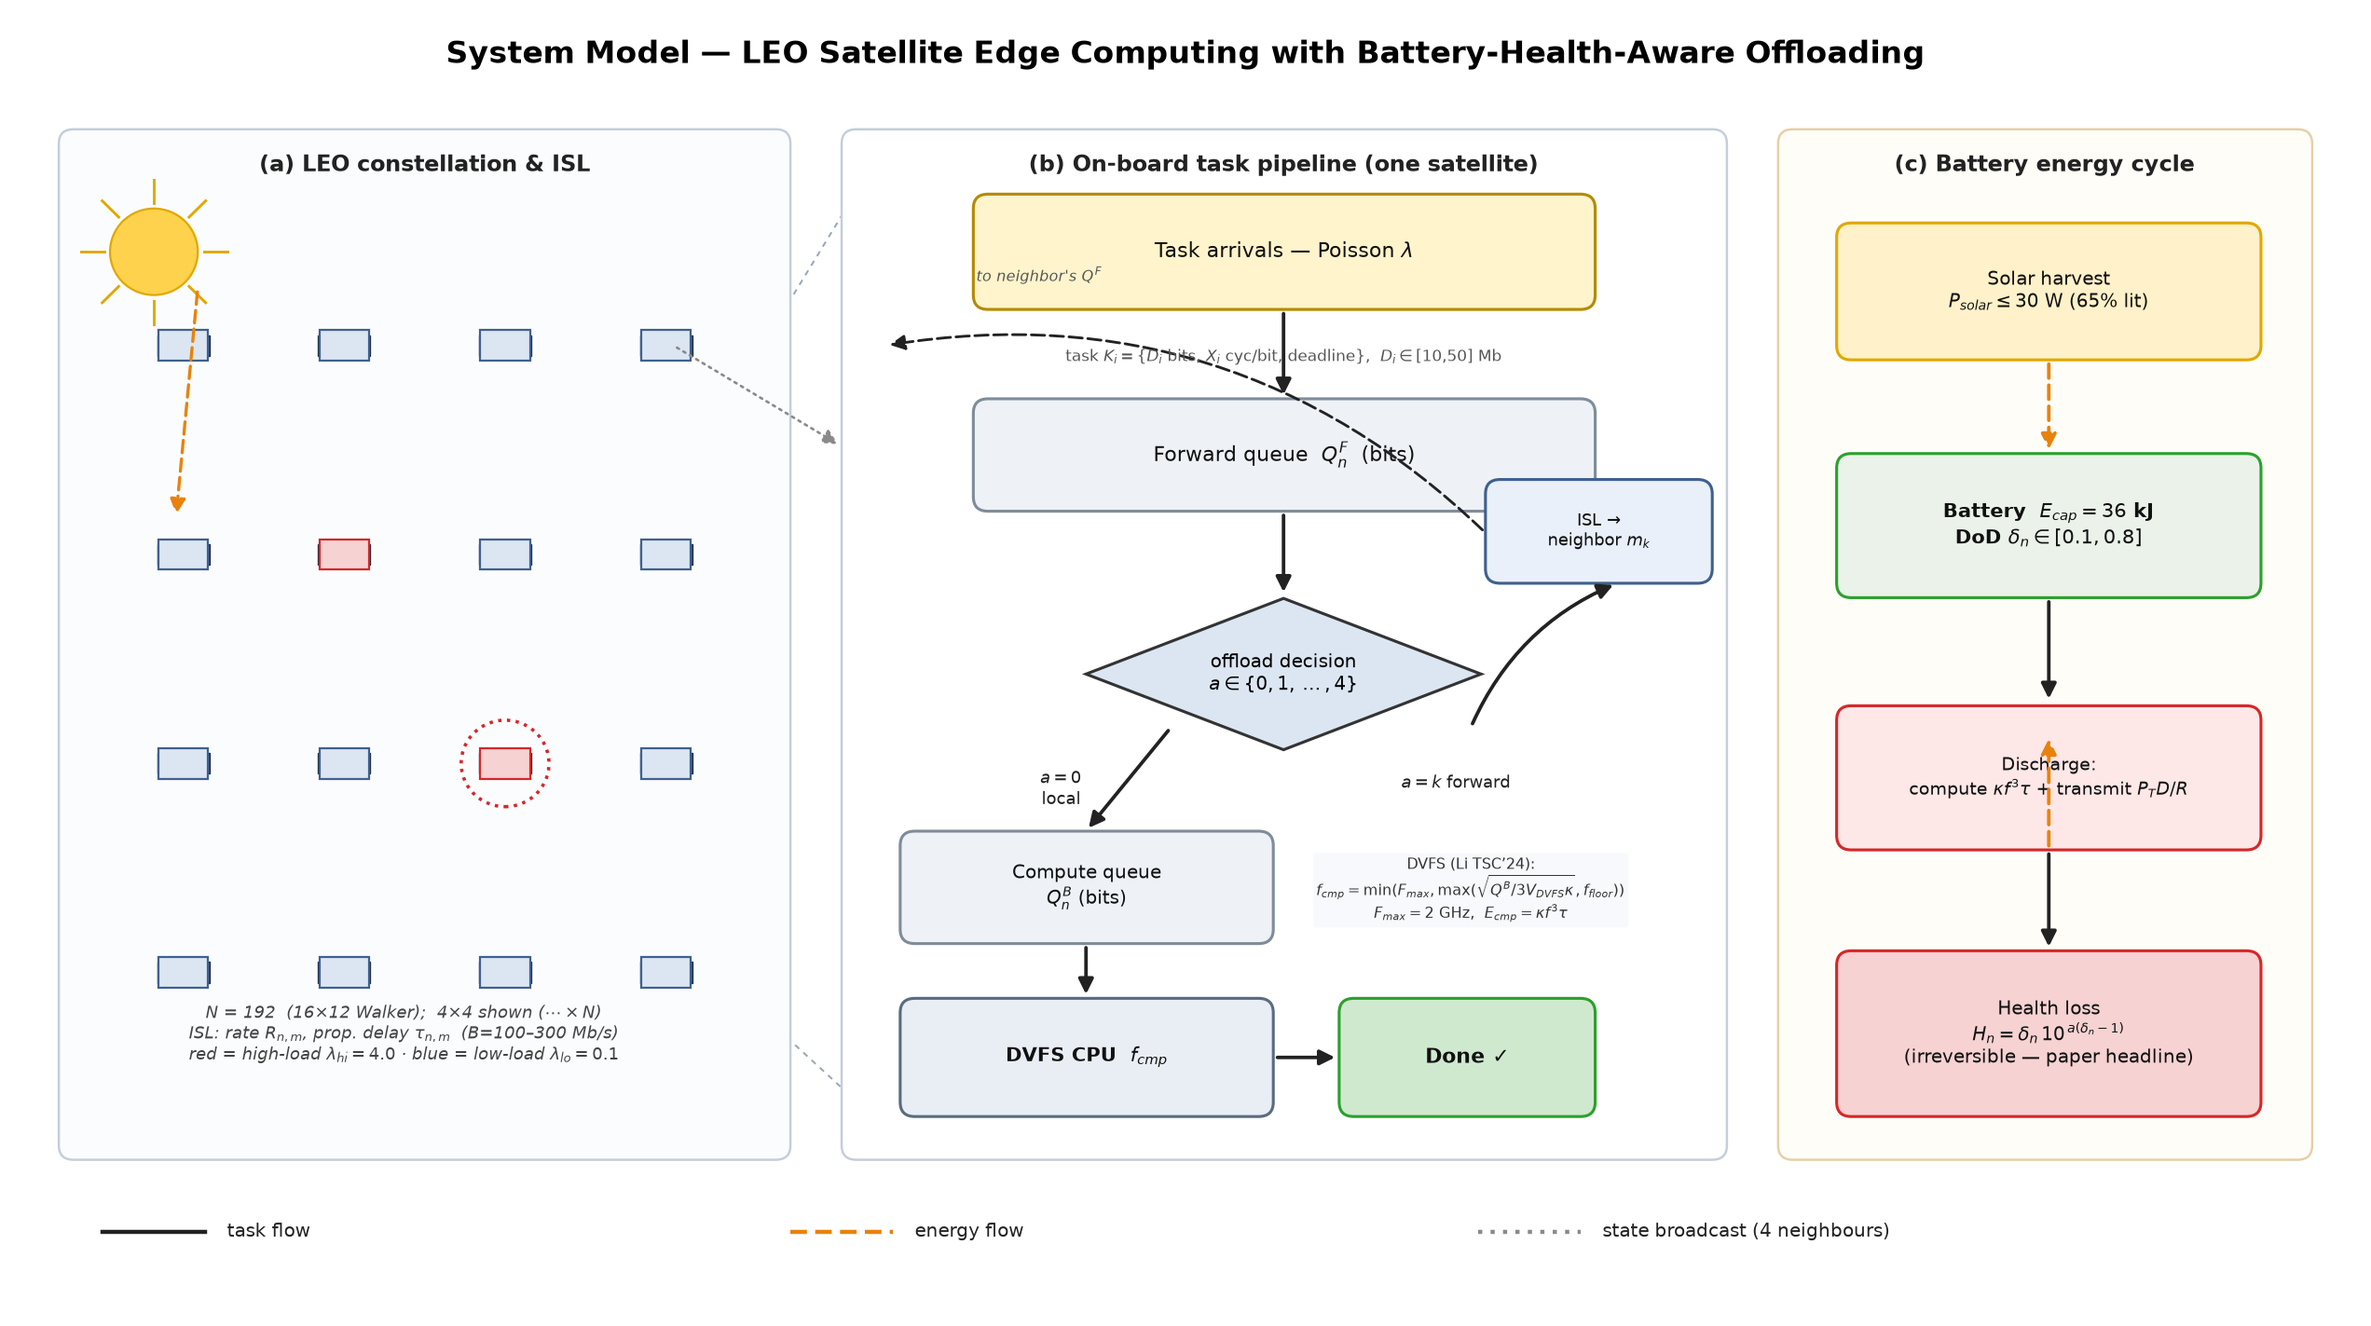
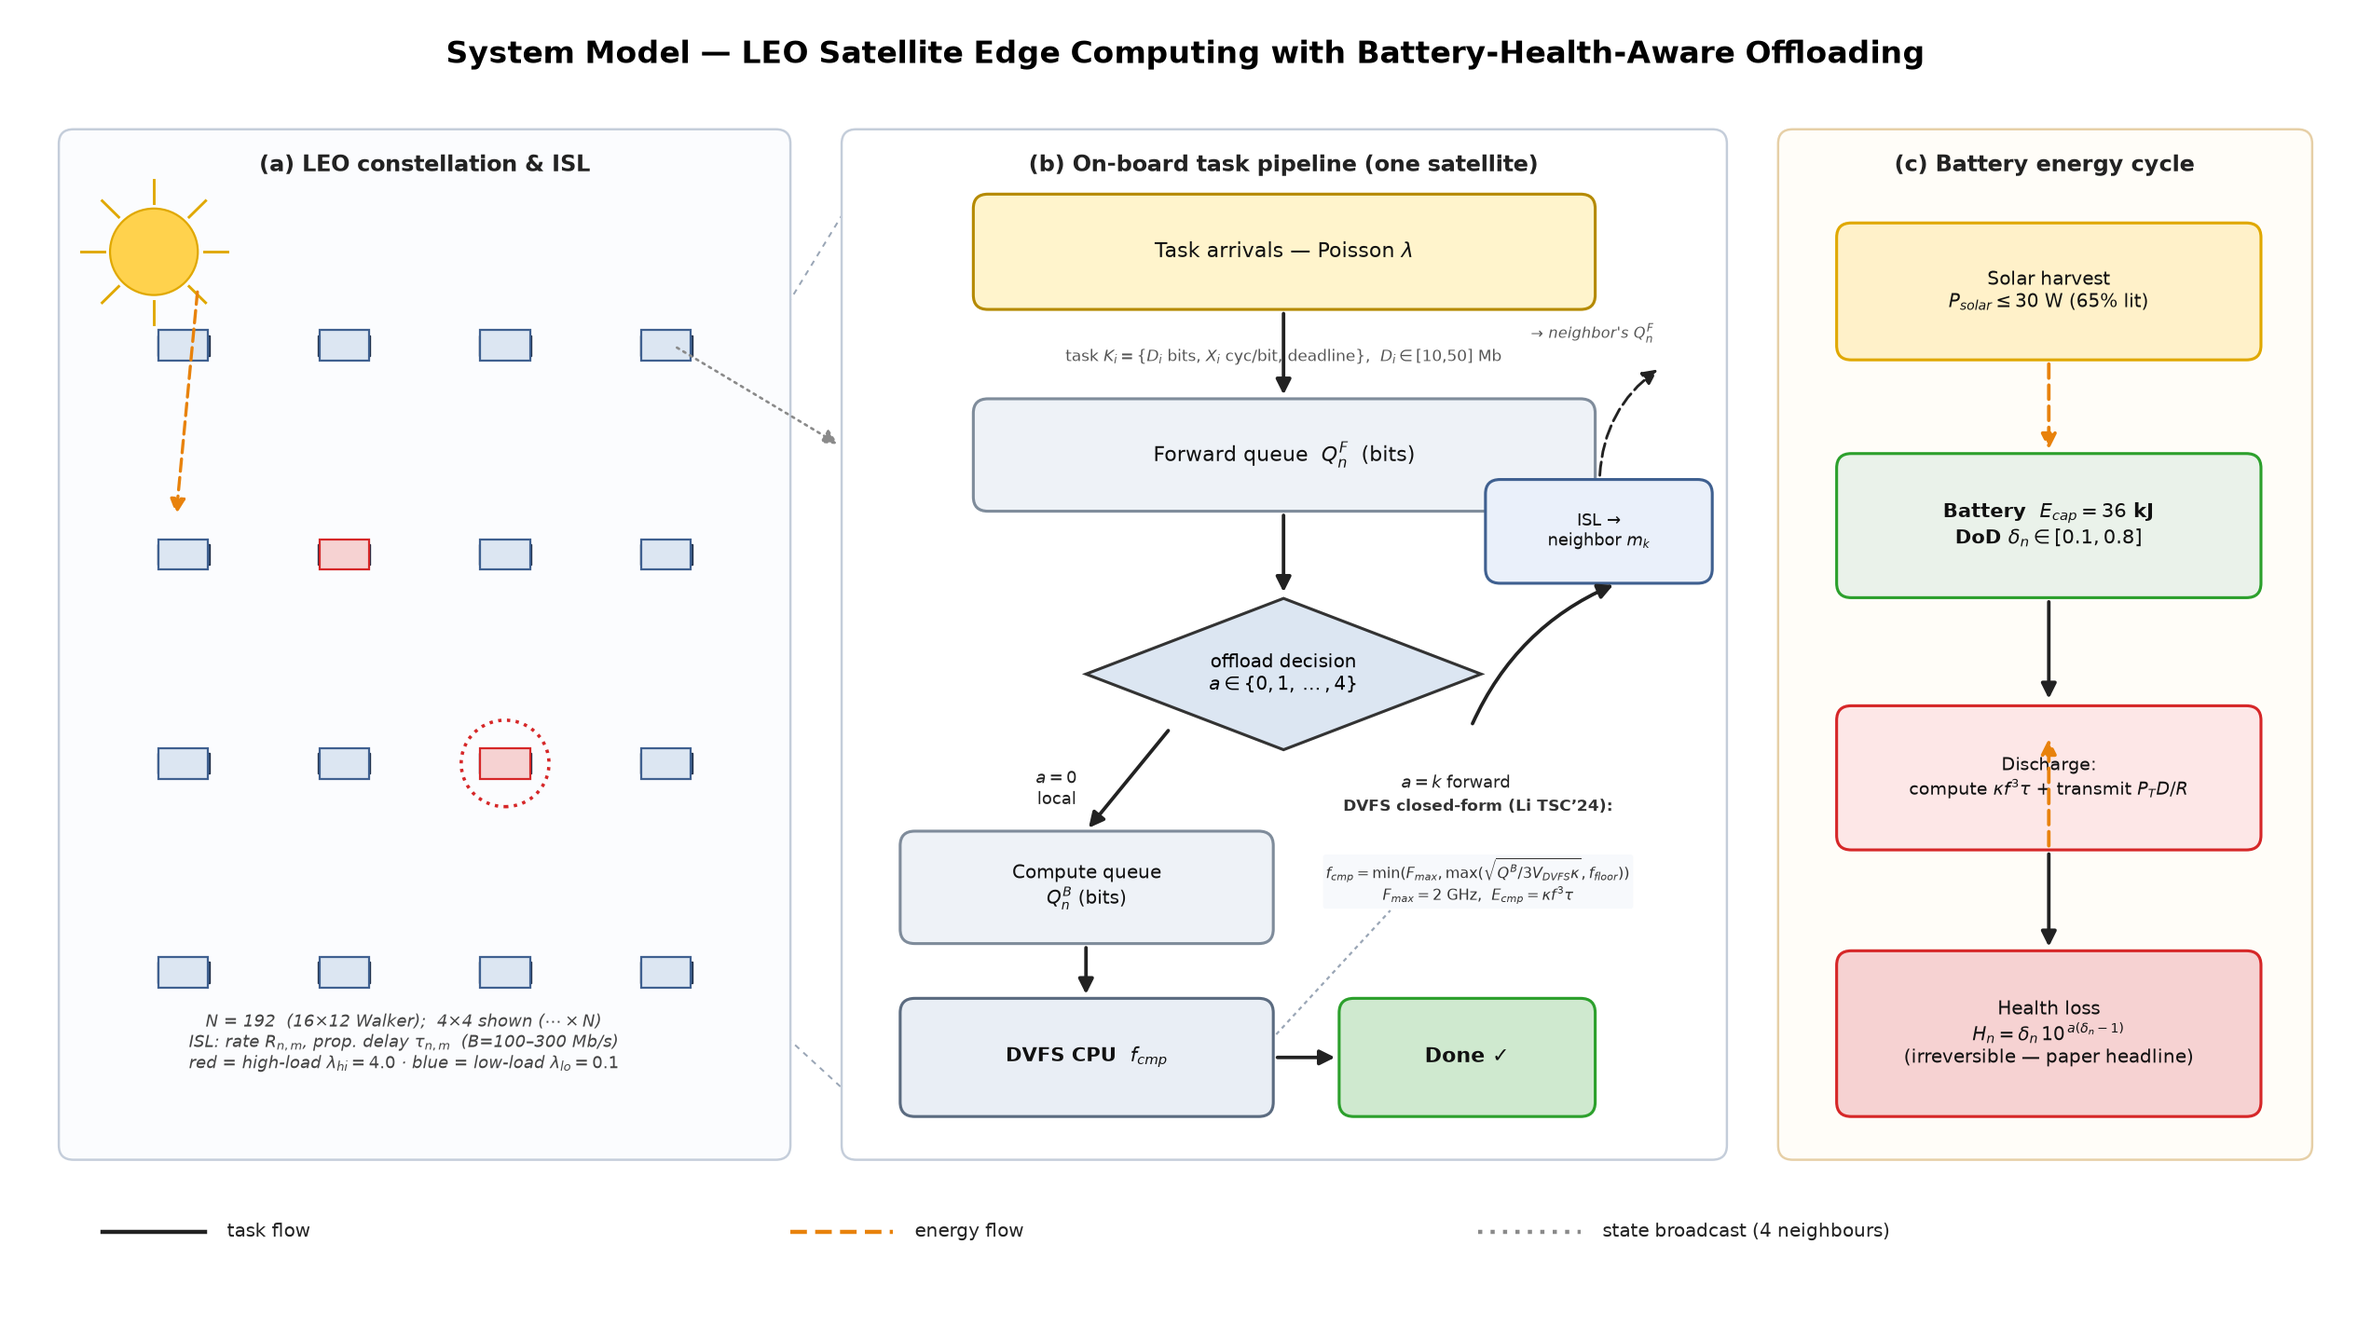
feat(arch-fig): Chinese system-model figure + Fig.1 layout refinements
plot_arch_figures.py:
- parametrize fig_system_model(lang); add zh text table, variable symbols
  kept in LaTeX math; CLI: python plot_arch_figures.py [en|zh]

Fig.1 refinements (both languages):
- ISL links brighter/thicker so the 4-neighbour topology reads
- DVFS closed-form relocated beside the DVFS-CPU box with a leader line
- forward-to-neighbour cue shortened to a top-right arrow (no full-width sweep)

Fixes:
- tofu: Done check mark now mathtext \checkmark (U+2713 missing in WenQuanYi)
- fig_framework() resets to English font (was inheriting zh font from the loop)

New file: docs/figures_paper/arch_system_model_zh.png

Claude-Session: https://claude.ai/code/session_011YXsBmPs5TDnKmHFofvjj5

diff --git a/satellite_mec/plot_arch_figures.py b/satellite_mec/plot_arch_figures.py
@@ -33,6 +33,77 @@ STAR             = '#b8860b'
 TASK_FLOW, ENE_FLOW, INFO_FLOW = '#222222', '#e8820c', '#8a8a8a'
 
 
+# ── language / fonts (zh = WenQuanYi Zen Hei; math symbols stay LaTeX) ──
+def set_lang_font(lang):
+    if lang == 'zh':
+        matplotlib.rcParams['font.sans-serif'] = ['WenQuanYi Zen Hei', 'DejaVu Sans']
+    else:
+        matplotlib.rcParams['font.sans-serif'] = ['DejaVu Sans']
+    matplotlib.rcParams['axes.unicode_minus'] = False
+
+
+# Figure-1 text table. Variable symbols (Q^F_n, V=50, ...) are universal and
+# left in math mode; only descriptive labels are translated.
+T_SYS = {
+    'en': {
+        'title': 'System Model — LEO Satellite Edge Computing with Battery-Health-Aware Offloading',
+        'a_label': '(a) LEO constellation & ISL',
+        'a_note': ('N = 192  (16$\\times$12 Walker);  4$\\times$4 shown ($\\cdots\\times$N)\n'
+                   'ISL: rate $R_{n,m}$, prop. delay $\\tau_{n,m}$  ($B$=100–300 Mb/s)\n'
+                   'red = high-load $\\lambda_{hi}{=}4.0$ · blue = low-load $\\lambda_{lo}{=}0.1$'),
+        'b_label': '(b) On-board task pipeline (one satellite)',
+        'task_arr': 'Task arrivals — Poisson $\\lambda$',
+        'task_note': 'task $K_i=\\{D_i$ bits, $X_i$ cyc/bit, deadline$\\}$,  $D_i\\in$[10,50] Mb',
+        'fwd_q': 'Forward queue  $Q^F_n$  (bits)',
+        'decision': 'offload decision\n$a\\in\\{0,1,\\dots,4\\}$',
+        'cmp_q': 'Compute queue\n$Q^B_n$ (bits)',
+        'dvfs_cpu': 'DVFS CPU  $f_{cmp}$',
+        'done': 'Done $\\checkmark$',
+        'local': '$a{=}0$\nlocal',
+        'isl_box': 'ISL →\nneighbor $m_k$',
+        'forward': '$a{=}k$ forward',
+        'to_neighbor': "→ neighbor's $Q^F_n$",
+        'dvfs_head': 'DVFS closed-form (Li TSC’24):',
+        'dvfs_eq': ('$f_{cmp}=\\min(F_{max},\\max(\\sqrt{Q^B/3V_{DVFS}\\kappa},f_{floor}))$\n'
+                    '$F_{max}{=}2$ GHz,  $E_{cmp}{=}\\kappa f^3\\tau$'),
+        'c_label': '(c) Battery energy cycle',
+        'solar': 'Solar harvest\n$P_{solar}\\leq 30$ W (65% lit)',
+        'battery': 'Battery  $E_{cap}{=}36$ kJ\nDoD $\\delta_n\\in[0.1,0.8]$',
+        'discharge': 'Discharge:\ncompute $\\kappa f^3\\tau$ + transmit $P_T D/R$',
+        'health': 'Health loss\n$H_n=\\delta_n\\,10^{\\,a(\\delta_n-1)}$\n(irreversible — paper headline)',
+        'lg_task': 'task flow', 'lg_ene': 'energy flow', 'lg_info': 'state broadcast (4 neighbours)',
+    },
+    'zh': {
+        'title': '系统模型 —— 面向电池健康的 LEO 卫星边缘计算任务卸载',
+        'a_label': '(a) LEO 星座与星间链路 (ISL)',
+        'a_note': ('$N=192$（16$\\times$12 Walker）；示意 4$\\times$4（$\\cdots\\times N$）\n'
+                   'ISL：速率 $R_{n,m}$，传播时延 $\\tau_{n,m}$（$B$=100–300 Mb/s）\n'
+                   '红 = 高负载 $\\lambda_{hi}{=}4.0$ · 蓝 = 低负载 $\\lambda_{lo}{=}0.1$'),
+        'b_label': '(b) 星上任务流水线（单颗卫星）',
+        'task_arr': '任务到达 —— 泊松过程 $\\lambda$',
+        'task_note': '任务 $K_i=\\{D_i$ 比特, $X_i$ 周期/比特, 截止$\\}$，$D_i\\in$[10,50] Mb',
+        'fwd_q': '前向队列  $Q^F_n$（比特）',
+        'decision': '卸载决策\n$a\\in\\{0,1,\\dots,4\\}$',
+        'cmp_q': '计算队列\n$Q^B_n$（比特）',
+        'dvfs_cpu': 'DVFS 处理器  $f_{cmp}$',
+        'done': '完成 $\\checkmark$',
+        'local': '$a{=}0$\n本地',
+        'isl_box': 'ISL →\n邻居 $m_k$',
+        'forward': '$a{=}k$ 转发',
+        'to_neighbor': '→ 邻居的 $Q^F_n$',
+        'dvfs_head': 'DVFS 闭式解 (Li TSC’24)：',
+        'dvfs_eq': ('$f_{cmp}=\\min(F_{max},\\max(\\sqrt{Q^B/3V_{DVFS}\\kappa},f_{floor}))$\n'
+                    '$F_{max}{=}2$ GHz，$E_{cmp}{=}\\kappa f^3\\tau$'),
+        'c_label': '(c) 电池能量循环',
+        'solar': '太阳能采集\n$P_{solar}\\leq 30$ W（65% 光照）',
+        'battery': '电池  $E_{cap}{=}36$ kJ\n放电深度 $\\delta_n\\in[0.1,0.8]$',
+        'discharge': '放电：\n计算 $\\kappa f^3\\tau$ + 传输 $P_T D/R$',
+        'health': '健康损耗\n$H_n=\\delta_n\\,10^{\\,a(\\delta_n-1)}$\n（不可逆 —— 论文核心命题）',
+        'lg_task': '任务流', 'lg_ene': '能量流', 'lg_info': '状态广播（4 邻居）',
+    },
+}
+
+
 # ── primitives ────────────────────────────────────────────────────────
 def box(ax, x, y, w, h, text='', fc='#fff', ec='#333', lw=1.4, fs=10,
         tc='#111', bold=False, rounded=True, zorder=2, va='center', pad=0.18):
@@ -84,27 +155,28 @@ def sat_icon(ax, cx, cy, s=0.16, body=C_ENV, ec=C_ENV_E, panel='#33527a', zorder
 # ══════════════════════════════════════════════════════════════════════
 # Figure 1 — System Model
 # ══════════════════════════════════════════════════════════════════════
-def fig_system_model():
+def fig_system_model(lang='en'):
+    set_lang_font(lang)
+    t = T_SYS[lang]
     fig, ax = plt.subplots(figsize=(16, 9))
     ax.set_xlim(0, 16); ax.set_ylim(0, 9); ax.axis('off')
-    ax.text(8, 8.66, 'System Model — LEO Satellite Edge Computing with Battery-Health-Aware Offloading',
-            ha='center', fontsize=15, fontweight='bold')
+    ax.text(8, 8.66, t['title'], ha='center', fontsize=15, fontweight='bold')
 
     # ---- region (a): constellation + ISL + solar ----
     box(ax, 0.3, 1.05, 5.0, 7.15, fc='#fbfcfe', ec='#c4cdda', lw=1.1, rounded=True)
-    lbl(ax, 2.8, 7.95, '(a) LEO constellation & ISL', fs=11, weight='bold')
+    lbl(ax, 2.8, 7.95, t['a_label'], fs=11, weight='bold')
     gx = np.linspace(1.15, 4.45, 4); gy = np.linspace(2.35, 6.7, 4)
     hi = {(1, 2), (2, 1)}  # representative high-load satellites
     pos = {}
     for i, yv in enumerate(gy):
         for j, xv in enumerate(gx):
             pos[(i, j)] = (xv, yv)
-    # ISL links (4-neighbour grid)
+    # ISL links (4-neighbour grid) — #1: brighter & thicker so topology reads
     for (i, j), (xv, yv) in pos.items():
         for di, dj in ((0, 1), (1, 0)):
             if (i + di, j + dj) in pos:
                 x2, y2 = pos[(i + di, j + dj)]
-                ax.plot([xv, x2], [yv, y2], color=C_ENV_E, lw=1.0, alpha=0.55, zorder=1)
+                ax.plot([xv, x2], [yv, y2], color=C_ENV_E, lw=1.7, alpha=0.9, zorder=1)
     for (i, j), (xv, yv) in pos.items():
         high = (i, j) in hi
         sat_icon(ax, xv, yv, s=0.17, body=('#f6d2d2' if high else C_ENV),
@@ -117,10 +189,7 @@ def fig_system_model():
                 color='#e0a800', lw=1.3, zorder=2)
     arrow(ax, (1.25, 7.1), (pos[(2, 0)][0] - 0.05, pos[(2, 0)][1] + 0.25),
           color=ENE_FLOW, ls=(0, (4, 2)), lw=1.5)
-    lbl(ax, 2.66, 1.92, 'N = 192  (16$\\times$12 Walker);  4$\\times$4 shown ($\\cdots\\times$N)\n'
-                        'ISL: rate $R_{n,m}$, prop. delay $\\tau_{n,m}$  ($B$=100–300 Mb/s)\n'
-                        'red = high-load $\\lambda_{hi}{=}4.0$ · blue = low-load $\\lambda_{lo}{=}0.1$',
-        fs=8.2, style='italic', color='#444')
+    lbl(ax, 2.66, 1.86, t['a_note'], fs=8.2, style='italic', color='#444')
     # zoom callout to region (b)
     for cyc in (0.55, -0.55):
         ax.plot([pos[(1, 2)][0] + 0.18, 5.65], [pos[(1, 2)][1] + cyc * 0.5, 7.6 if cyc > 0 else 1.55],
@@ -129,41 +198,39 @@ def fig_system_model():
 
     # ---- region (b): on-board pipeline ----
     box(ax, 5.65, 1.05, 6.05, 7.15, fc='#ffffff', ec='#c4cdda', lw=1.1)
-    lbl(ax, 8.67, 7.95, '(b) On-board task pipeline (one satellite)', fs=11, weight='bold')
-    box(ax, 6.55, 6.95, 4.25, 0.8, 'Task arrivals — Poisson $\\lambda$', fc=C_TASK, ec=C_TASK_E, fs=10)
-    lbl(ax, 8.67, 6.62, 'task $K_i=\\{D_i$ bits, $X_i$ cyc/bit, deadline$\\}$,  $D_i\\in$[10,50] Mb',
-        fs=7.6, color='#555')
-    box(ax, 6.55, 5.55, 4.25, 0.78, 'Forward queue  $Q^F_n$  (bits)', fc=C_QUE, ec=C_QUE_E, fs=10)
-    diamond(ax, 8.67, 4.42, 2.7, 1.05, 'offload decision\n$a\\in\\{0,1,\\dots,4\\}$', fc=C_ENV, fs=9)
-    box(ax, 6.05, 2.55, 2.55, 0.78, 'Compute queue\n$Q^B_n$ (bits)', fc=C_QUE, ec=C_QUE_E, fs=9)
-    box(ax, 6.05, 1.35, 2.55, 0.82, 'DVFS CPU  $f_{cmp}$', fc='#e9eef5', ec='#5b6b80', fs=9.5, bold=True)
-    box(ax, 9.05, 1.35, 1.75, 0.82, 'Done ✓', fc=C_DONE, ec=C_CRI_E, fs=10, bold=True)
+    lbl(ax, 8.67, 7.95, t['b_label'], fs=11, weight='bold')
+    box(ax, 6.55, 6.95, 4.25, 0.8, t['task_arr'], fc=C_TASK, ec=C_TASK_E, fs=10)
+    lbl(ax, 8.67, 6.62, t['task_note'], fs=7.6, color='#555')
+    box(ax, 6.55, 5.55, 4.25, 0.78, t['fwd_q'], fc=C_QUE, ec=C_QUE_E, fs=10)
+    diamond(ax, 8.67, 4.42, 2.7, 1.05, t['decision'], fc=C_ENV, fs=9)
+    box(ax, 6.05, 2.55, 2.55, 0.78, t['cmp_q'], fc=C_QUE, ec=C_QUE_E, fs=9)
+    box(ax, 6.05, 1.35, 2.55, 0.82, t['dvfs_cpu'], fc='#e9eef5', ec='#5b6b80', fs=9.5, bold=True)
+    box(ax, 9.05, 1.35, 1.75, 0.82, t['done'], fc=C_DONE, ec=C_CRI_E, fs=10, bold=True)
     # arrows (task flow)
     arrow(ax, (8.67, 6.95), (8.67, 6.33))
     arrow(ax, (8.67, 5.55), (8.67, 4.96))
-    arrow(ax, (7.9, 4.05), (7.32, 3.33)); lbl(ax, 7.15, 3.62, '$a{=}0$\nlocal', fs=8)
+    arrow(ax, (7.9, 4.05), (7.32, 3.33)); lbl(ax, 7.12, 3.62, t['local'], fs=8)
     arrow(ax, (7.32, 2.55), (7.32, 2.17))
     arrow(ax, (8.6, 1.76), (9.05, 1.76))
-    # forward branch -> ISL out (back toward constellation)
+    # forward branch -> ISL out
     arrow(ax, (9.95, 4.05), (10.95, 5.05), rad=-0.2)
-    box(ax, 10.05, 5.05, 1.55, 0.72, 'ISL →\nneighbor $m_k$', fc='#eaf0fa', ec=C_ENV_E, fs=8)
-    lbl(ax, 9.85, 3.66, '$a{=}k$ forward', fs=8)
-    arrow(ax, (10.05, 5.4), (5.95, 6.7), color=TASK_FLOW, ls=(0, (5, 2)), lw=1.3, rad=0.25)
-    lbl(ax, 7.0, 7.18, "to neighbor's $Q^F$", fs=7.4, color='#555', style='italic')
-    # DVFS annotation (inside region b, clear of the bottom legend)
-    lbl(ax, 9.95, 2.92, 'DVFS (Li TSC’24):\n'
-                        '$f_{cmp}=\\min(F_{max},\\max(\\sqrt{Q^B/3V_{DVFS}\\kappa},f_{floor}))$\n'
-                        '$F_{max}{=}2$ GHz,  $E_{cmp}{=}\\kappa f^3\\tau$',
-        fs=7.3, color='#333', bg='#f7f9fc')
+    box(ax, 10.05, 5.05, 1.55, 0.72, t['isl_box'], fc='#eaf0fa', ec=C_ENV_E, fs=8)
+    lbl(ax, 9.85, 3.66, t['forward'], fs=8)
+    # #3: forwarded task -> neighbour's queue, short top-right cue (no full-width sweep)
+    arrow(ax, (10.83, 5.77), (11.25, 6.55), color=TASK_FLOW, ls=(0, (5, 2)), lw=1.3, rad=-0.25)
+    lbl(ax, 10.78, 6.78, t['to_neighbor'], fs=7.4, color='#555', style='italic')
+    # #2: DVFS closed-form moved beside the DVFS CPU box, tied with a leader line
+    ax.plot([8.62, 9.4], [1.92, 2.78], color='#9aa6b6', lw=1.0, ls=(0, (2, 2)), zorder=2)
+    lbl(ax, 10.0, 3.5, t['dvfs_head'], fs=7.6, color='#333', weight='bold')
+    lbl(ax, 10.0, 2.98, t['dvfs_eq'], fs=7.2, color='#333', bg='#f7f9fc')
 
     # ---- region (c): battery energy cycle ----
     box(ax, 12.05, 1.05, 3.65, 7.15, fc='#fffdf8', ec='#e6cfa6', lw=1.1)
-    lbl(ax, 13.87, 7.95, '(c) Battery energy cycle', fs=11, weight='bold')
-    box(ax, 12.45, 6.6, 2.9, 0.95, 'Solar harvest\n$P_{solar}\\leq 30$ W (65% lit)', fc='#fff1c9', ec='#e0a800', fs=9)
-    box(ax, 12.45, 4.95, 2.9, 1.0, 'Battery  $E_{cap}{=}36$ kJ\nDoD $\\delta_n\\in[0.1,0.8]$', fc='#eaf2ea', ec=C_CRI_E, fs=9.5, bold=True)
-    box(ax, 12.45, 3.2, 2.9, 1.0, 'Discharge:\ncompute $\\kappa f^3\\tau$ + transmit $P_T D/R$', fc='#fde7e7', ec=C_ACT_E, fs=8.6)
-    box(ax, 12.45, 1.35, 2.9, 1.15, 'Health loss\n$H_n=\\delta_n\\,10^{\\,a(\\delta_n-1)}$\n(irreversible — paper headline)',
-        fc='#f6d2d2', ec=C_ACT_E, fs=9, bold=False)
+    lbl(ax, 13.87, 7.95, t['c_label'], fs=11, weight='bold')
+    box(ax, 12.45, 6.6, 2.9, 0.95, t['solar'], fc='#fff1c9', ec='#e0a800', fs=9)
+    box(ax, 12.45, 4.95, 2.9, 1.0, t['battery'], fc='#eaf2ea', ec=C_CRI_E, fs=9.5, bold=True)
+    box(ax, 12.45, 3.2, 2.9, 1.0, t['discharge'], fc='#fde7e7', ec=C_ACT_E, fs=8.6)
+    box(ax, 12.45, 1.35, 2.9, 1.15, t['health'], fc='#f6d2d2', ec=C_ACT_E, fs=9, bold=False)
     arrow(ax, (13.9, 6.6), (13.9, 5.95), color=ENE_FLOW, ls=(0, (4, 2)))
     arrow(ax, (13.9, 3.2), (13.9, 4.0), color=ENE_FLOW, ls=(0, (4, 2)))   # discharge into battery (energy out)
     arrow(ax, (13.9, 4.95), (13.9, 4.22), color=TASK_FLOW)
@@ -172,9 +239,9 @@ def fig_system_model():
     # ---- legend ----
     lx = 0.6
     for dx, (col, ls, txt) in enumerate([
-            (TASK_FLOW, '-', 'task flow'),
-            (ENE_FLOW, (0, (4, 2)), 'energy flow'),
-            (INFO_FLOW, (0, (1, 2)), 'state broadcast (4 neighbours)')]):
+            (TASK_FLOW, '-', t['lg_task']),
+            (ENE_FLOW, (0, (4, 2)), t['lg_ene']),
+            (INFO_FLOW, (0, (1, 2)), t['lg_info'])]):
         x0 = lx + dx * 4.7
         ax.plot([x0, x0 + 0.7], [0.55, 0.55], color=col, lw=2.0, ls=ls)
         lbl(ax, x0 + 0.85, 0.55, txt, fs=9, ha='left')
@@ -182,7 +249,8 @@ def fig_system_model():
     arrow(ax, (4.5, 6.7), (5.65, 6.0), color=INFO_FLOW, ls=(0, (1, 2)), lw=1.2, style='-|>')
 
     plt.tight_layout()
-    p = os.path.join(OUT, 'arch_system_model.png')
+    fname = 'arch_system_model.png' if lang == 'en' else f'arch_system_model_{lang}.png'
+    p = os.path.join(OUT, fname)
     plt.savefig(p, dpi=160, bbox_inches='tight'); plt.close()
     return p
 
@@ -191,6 +259,7 @@ def fig_system_model():
 # Figure 2 — LyaMAPPO framework (CTDE)
 # ══════════════════════════════════════════════════════════════════════
 def fig_framework():
+    set_lang_font('en')  # framework labels are English; never inherit zh font
     fig, ax = plt.subplots(figsize=(16, 9))
     ax.set_xlim(0, 16); ax.set_ylim(0, 9); ax.axis('off')
     ax.text(8, 8.66, 'LyaMAPPO Framework — Lyapunov Drift-plus-Penalty $\\otimes$ MAPPO (CTDE)',
@@ -279,8 +348,10 @@ def fig_framework():
 
 
 if __name__ == '__main__':
-    p1 = fig_system_model()
-    p2 = fig_framework()
+    import sys
+    langs = sys.argv[1:] if len(sys.argv) > 1 else ['en', 'zh']
+    written = [fig_system_model(lang=lg) for lg in langs]
+    written.append(fig_framework())
     print('Architecture figures written:')
-    print(' -', p1)
-    print(' -', p2)
+    for w in written:
+        print(' -', w)
